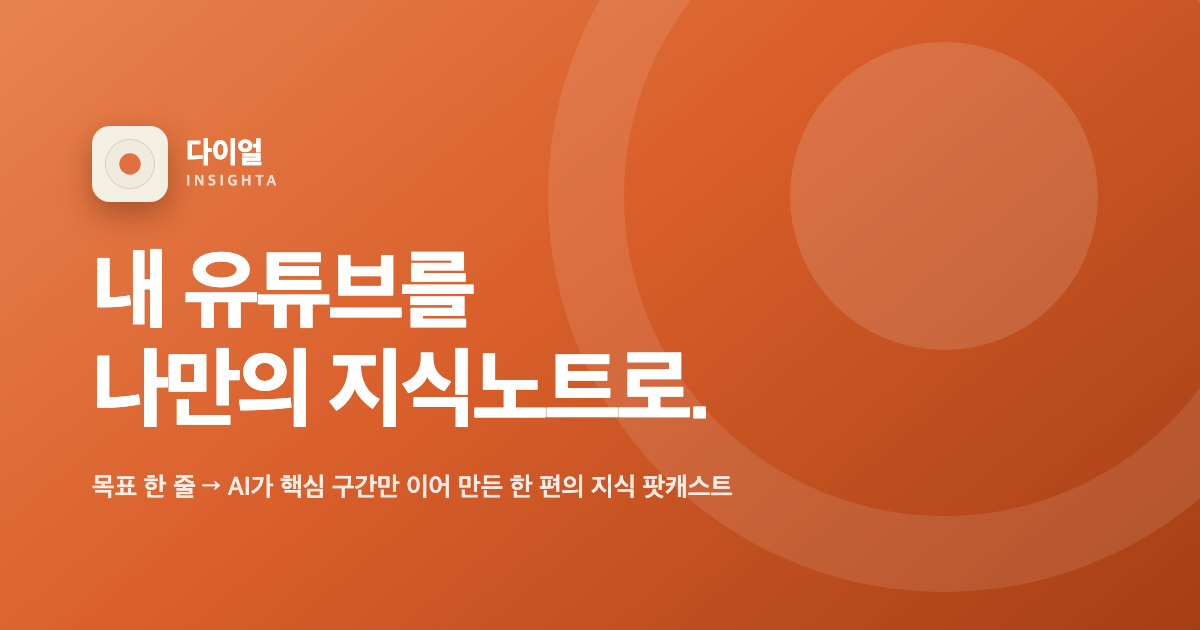
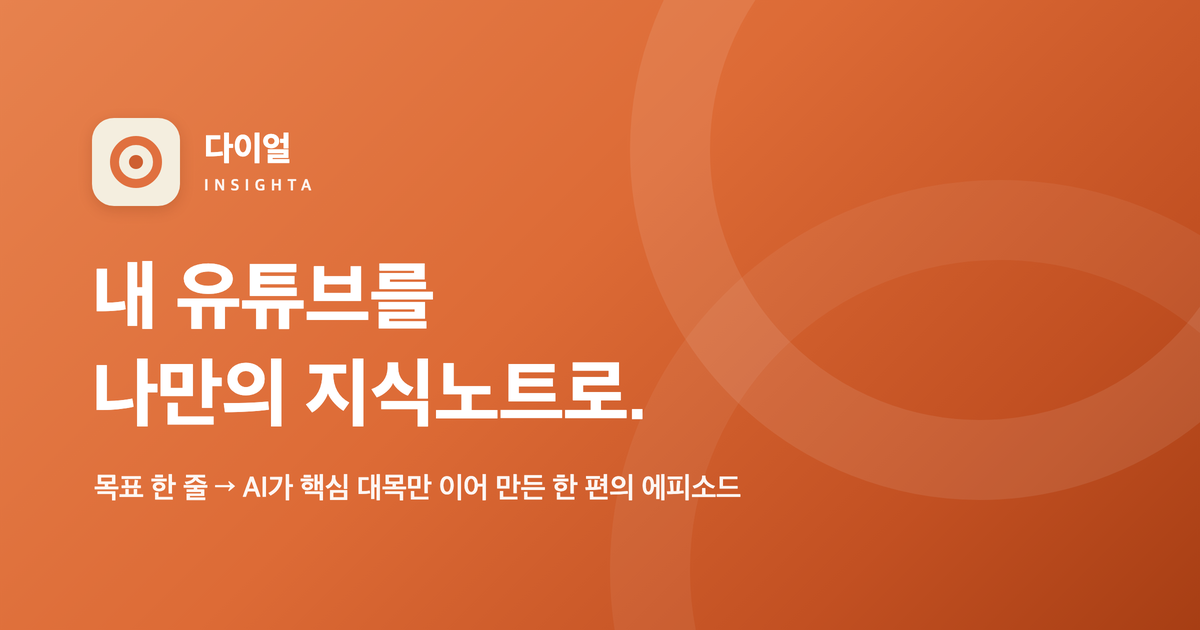
fix(dial): tagline '내 유튜브를' + drop 팟캐스트 wording — og image regenerated (#1246)
James copy directives (2026-07-15): tagline is '내 유튜브를 나만의
지식노트로.' (was missing 내), and 팟캐스트 is a banned word on brand
surfaces. Applied to dial/mobile meta + the og.png artwork itself
(re-rendered to the measured original spec: gradient #E7824E→#A73E14,
ring motif, icon lockup; sub now '한 편의 에피소드').

Pull request: fix(dial): tagline '내 유튜브를' + remove 팟캐스트 wording (og regenerated)
James copy directives (2026-07-15): brand tagline must read '내 유튜브를 나만의 지식노트로.' and 팟캐스트 is banned on brand surfaces. Updates dial/mobile meta text and regenerates the baked-in og.png artwork (measured-spec re-render; sub line now '한 편의 에피소드'). Static assets only — no code paths.

Data-Write: none-existing

🤖 Generated with [Claude Code](https://claude.com/claude-code)

diff --git a/frontend/public/dial/index.html b/frontend/public/dial/index.html
@@ -4,20 +4,20 @@
 <meta charset="utf-8">
 <meta name="viewport" content="width=device-width, initial-scale=1, viewport-fit=cover">
 <title>다이얼 — 내 유튜브를 나만의 지식노트로</title>
-<meta name="description" content="목표 한 줄이면 AI가 최적의 영상을 찾아 핵심 구간만 이어, 한 편의 지식 팟캐스트로 만들어 드립니다.">
+<meta name="description" content="목표 한 줄이면 AI가 최적의 영상을 찾아 핵심 구간만 이어, 한 편의 에피소드로 만들어 드립니다.">
 <link rel="icon" type="image/png" sizes="192x192" href="/mobile/icon-192.png">
 <link rel="apple-touch-icon" href="/mobile/icon-180.png">
 <meta property="og:type" content="website">
 <meta property="og:site_name" content="다이얼 — Insighta">
 <meta property="og:title" content="다이얼 — 내 유튜브를 나만의 지식노트로">
-<meta property="og:description" content="목표 한 줄이면 AI가 최적의 영상을 찾아 핵심 구간만 이어, 한 편의 지식 팟캐스트로. 지금 로그인 없이 샘플을 들어보세요.">
+<meta property="og:description" content="목표 한 줄이면 AI가 최적의 영상을 찾아 핵심 구간만 이어, 한 편의 에피소드로. 지금 로그인 없이 샘플을 들어보세요.">
 <meta property="og:url" content="https://insighta.one/dial/">
 <meta property="og:image" content="https://insighta.one/dial/og.png">
 <meta property="og:image:width" content="1200">
 <meta property="og:image:height" content="630">
 <meta name="twitter:card" content="summary_large_image">
 <meta name="twitter:title" content="다이얼 — 내 유튜브를 나만의 지식노트로">
-<meta name="twitter:description" content="목표 한 줄이면 AI가 핵심 구간만 이어 한 편의 지식 팟캐스트로.">
+<meta name="twitter:description" content="목표 한 줄이면 AI가 핵심 구간만 이어 한 편의 에피소드로.">
 <meta name="twitter:image" content="https://insighta.one/dial/og.png">
 </head>
 <body>
@@ -178,7 +178,7 @@
       </svg></span>
       <small><b>다이얼</b>Insighta · Pocket Knowledge Player</small>
     </div>
-    <div class="eye">목표 한 줄 → 한 편의 지식 팟캐스트</div>
+    <div class="eye">목표 한 줄 → 한 편의 에피소드</div>
     <h1>내 유튜브를<br>나만의 지식노트로.</h1>
     <p class="sub">검색하고, 고르고, 건너뛰는 시간은 이제 그만.
       <b>AI가 최적의 영상을 찾아 겹침을 걷어내고 꼭 필요한 순간만 이어</b>